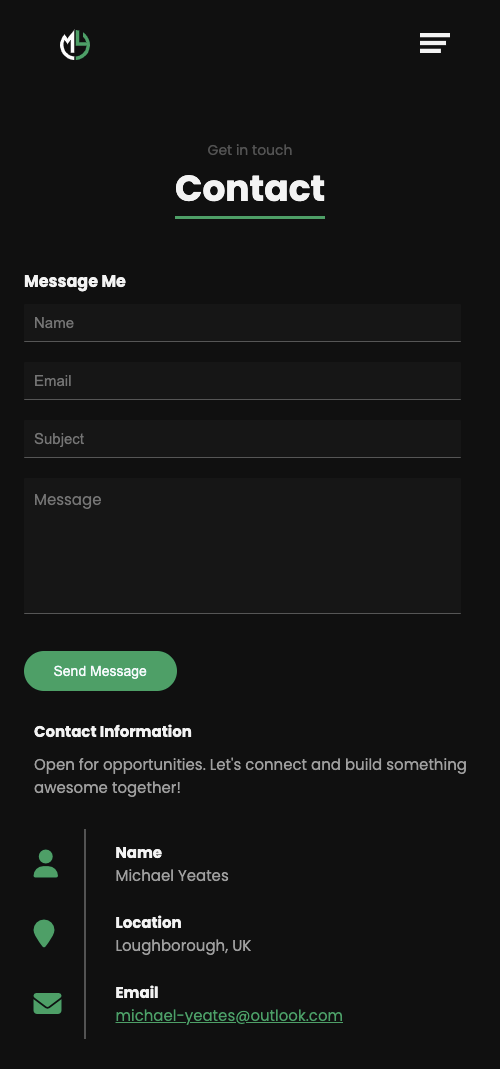
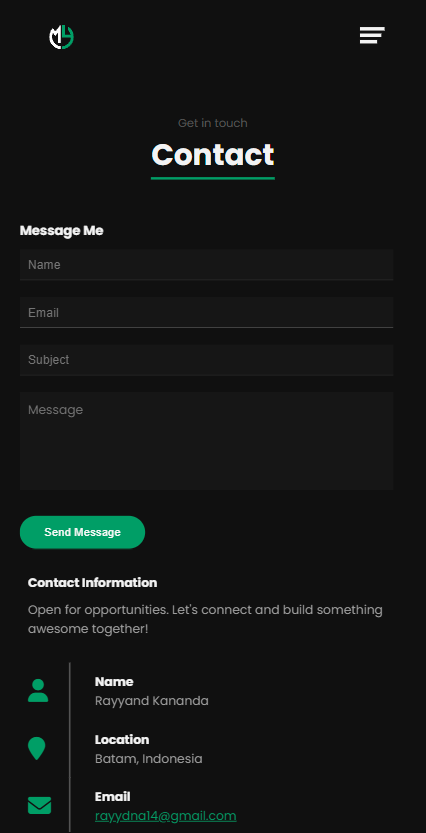
update readme

diff --git a/README.md b/README.md
@@ -10,14 +10,14 @@ This portfolio application was built using React and is designed to showcase my 
       Built by: Rayyand Kananda Syahputra
       <br/>
       <br/>
-      <a href="https://github.com/mdyeates/my-portfolio"><strong>Explore the docs »</strong></a>
+      <a href="https://github.com/Rayyks/rayyks-portfolio"><strong>Explore the docs »</strong></a>
       <br/>
       <br/>
-      <a href="https://michaelyeates.co.uk">View Live Website</a>
+      <a href="#">View Live Website</a>
       ·
-      <a href="https://github.com/mdyeates/my-portfolio/issues">Report Bug</a>
+      <a href="https://github.com/Rayyks/rayyks-portfolio/issues">Report Bug</a>
       ·
-      <a href="https://github.com/mdyeates/my-portfolio/issues">Request Feature</a>
+      <a href="https://github.com/Rayyks/rayyks-portfolio/issues">Request Feature</a>
     </p>
   </div>
   
@@ -31,7 +31,6 @@ This portfolio application was built using React and is designed to showcase my 
         <ul>
           <li><a href="#photos">Photos</a></li>
           <li><a href="#built-with">Built With</a></li>
-          <li><a href="#description">Description</a></li>
         </ul>
       </li>
       <li>
@@ -47,7 +46,6 @@ This portfolio application was built using React and is designed to showcase my 
           <li><a href="#mobile-responsive">Mobile Responsive</a></li>
         </ul>
       </li>
-      <li><a href="#license">License</a></li>
       <li><a href="#questions">Questions</a></li>
     </ol>
   </details>
@@ -58,13 +56,13 @@ This portfolio application was built using React and is designed to showcase my 
   
   ### Photos
   
-  [![My React Portfolio Screen Shot][product-screenshot]](https://michaelyeates.co.uk)
+  [![My React Portfolio Screen Shot][product-screenshot]](#)
 
-[![My React Portfolio Screen Shot][product-screenshot2]](https://michaelyeates.co.uk)
+[![My React Portfolio Screen Shot][product-screenshot2]](#)
 
-[![My React Portfolio Screen Shot][product-screenshot3]](https://michaelyeates.co.uk)
+[![My React Portfolio Screen Shot][product-screenshot3]](#)
 
-[![My React Portfolio Screen Shot][product-screenshot4]](https://michaelyeates.co.uk)
+[![My React Portfolio Screen Shot][product-screenshot4]](#)
 
   <p align="right"><a href="#readme-top">back to top</a></p>
   
@@ -73,11 +71,7 @@ This portfolio application was built using React and is designed to showcase my 
   - ![React](https://img.shields.io/badge/React-20232A?style=for-the-badge&logo=React&logoColor=61DAFB)
 
   <p align="right"><a href="#readme-top">back to top</a></p>
-  
-  ### Description
-  
-  This is the initial version of my portfolio website, built with React. It presents a comprehensive showcase of my projects. The design places a strong emphasis on a mobile-first approach, delivering a professional and polished look through the use of a carefully chosen color palette.
-  
+
   <p align="right"><a href="#readme-top">back to top</a></p>
 
 <!-- GETTING STARTED -->
@@ -97,7 +91,7 @@ To get a local copy up and running follow these simple example steps.
 
 1. Clone the repo
    ```sh
-   git clone https://github.com/mdyeates/my-portfolio.git
+   git clone https://github.com/Rayyks/rayyks-portfolio.git
    ```
 2. Install NPM packages
    ```sh
@@ -113,21 +107,17 @@ To get a local copy up and running follow these simple example steps.
   
   - As demonstrated in the photos below, this application is designed to be responsive and adjust seamlessly to fit various screen sizes
   
-    [![Responsiveness Screenshot][responsive-screenshot]](https://michaelyeates.co.uk)
+    [![Responsiveness Screenshot][responsive-screenshot]](#)
     
-    [![Responsiveness Screenshot][responsive-screenshot2]](https://michaelyeates.co.uk)
+    [![Responsiveness Screenshot][responsive-screenshot2]](#)
 
-    [![Responsiveness Screenshot][responsive-screenshot3]](https://michaelyeates.co.uk)
+    [![Responsiveness Screenshot][responsive-screenshot3]](#)
 
-    [![Responsiveness Screenshot][responsive-screenshot4]](https://michaelyeates.co.uk)
+    [![Responsiveness Screenshot][responsive-screenshot4]](#)
 
   <p align="right"><a href="#readme-top">back to top</a></p>
 
   <!-- LICENSE -->
-
-## License
-
-Distributed under the MIT License. See `LICENSE.md` for more information.
 
   <p align="right"><a href="#readme-top">back to top</a></p>
   
@@ -136,28 +126,27 @@ Distributed under the MIT License. See `LICENSE.md` for more information.
   
 ## Questions
 
-If you have any inquiries, don't hesitate to reach out to me via socials or by sending an email to <a href="mailto:michael-yeates@outlook.com">michael-yeates@outlook.com</a>
+If you have any inquiries, don't hesitate to reach out to me via socials or by sending an email to <a href="mailto:rayydna14@gmail.com">rayydna14@gmail.com</a>
 
-<a href="https://www.linkedin.com/in/mdyeates/">LinkedIn</a> | <a href="https://github.com/mdyeates/">GitHub</a>
+<a href="https://www.linkedin.com/in/rayyand/">LinkedIn</a> | <a href="https://github.com/Rayyks/">GitHub</a>
 
-Project Link: [https://github.com/mdyeates/my-portfolio](https://github.com/mdyeates/my-portfolio)
+Project Link: [https://github.com/Rayyks/rayyks-portfolio](https://github.com/Rayyks/rayyks-portfolio)
 
   <p align="right"><a href="#readme-top">back to top</a></p>
   
   <!-- MARKDOWN LINKS & IMAGES -->
 
-[contributors-shield]: https://img.shields.io/github/contributors/mdyeates/my-portfolio.svg?style=for-the-badge
-[contributors-url]: https://github.com/mdyeates/my-portfolio/graphs/contributors
-[forks-shield]: https://img.shields.io/github/forks/mdyeates/my-portfolio.svg?style=for-the-badge
-[forks-url]: https://github.com/mdyeates/my-portfolio/network/members
-[stars-shield]: https://img.shields.io/github/stars/mdyeates/my-portfolio.svg?style=for-the-badge
-[stars-url]: https://github.com/mdyeates/my-portfolio/stargazers
-[issues-shield]: https://img.shields.io/github/issues/mdyeates/my-portfolio.svg?style=for-the-badge
-[issues-url]: https://github.com/mdyeates/my-portfolio/issues
-[license-shield]: https://img.shields.io/github/license/mdyeates/my-portfolio.svg?style=for-the-badge
-[license-url]: https://github.com/mdyeates/my-portfolio/blob/main/LICENSE
+[contributors-shield]: https://img.shields.io/github/contributors/Rayyks/rayyks-portfolio.svg?style=for-the-badge
+[contributors-url]: https://github.com/Rayyks/rayyks-portfolio/graphs/contributors
+[forks-shield]: https://img.shields.io/github/forks/Rayyks/rayyks-portfolio.svg?style=for-the-badge
+[forks-url]: https://github.com/Rayyks/rayyks-portfolio/network/members
+[stars-shield]: https://img.shields.io/github/stars/Rayyks/rayyks-portfolio.svg?style=for-the-badge
+[stars-url]: https://github.com/Rayyks/rayyks-portfolio/stargazers
+[issues-shield]: https://img.shields.io/github/issues/Rayyks/rayyks-portfolio.svg?style=for-the-badge
+[issues-url]: https://github.com/Rayyks/rayyks-portfolio/issues
+[license-shield]: https://img.shields.io/github/license/Rayyks/rayyks-portfolio.svg?style=for-the-badge
 [linkedin-shield]: https://img.shields.io/badge/-LinkedIn-black.svg?style=for-the-badge&logo=linkedin&colorB=555
-[linkedin-url]: https://linkedin.com/in/mdyeates
+[linkedin-url]: https://linkedin.com/in/rayyand/
 
   <!-- UPDATE PLACEHOLDER IMAGES HERE -->
 
